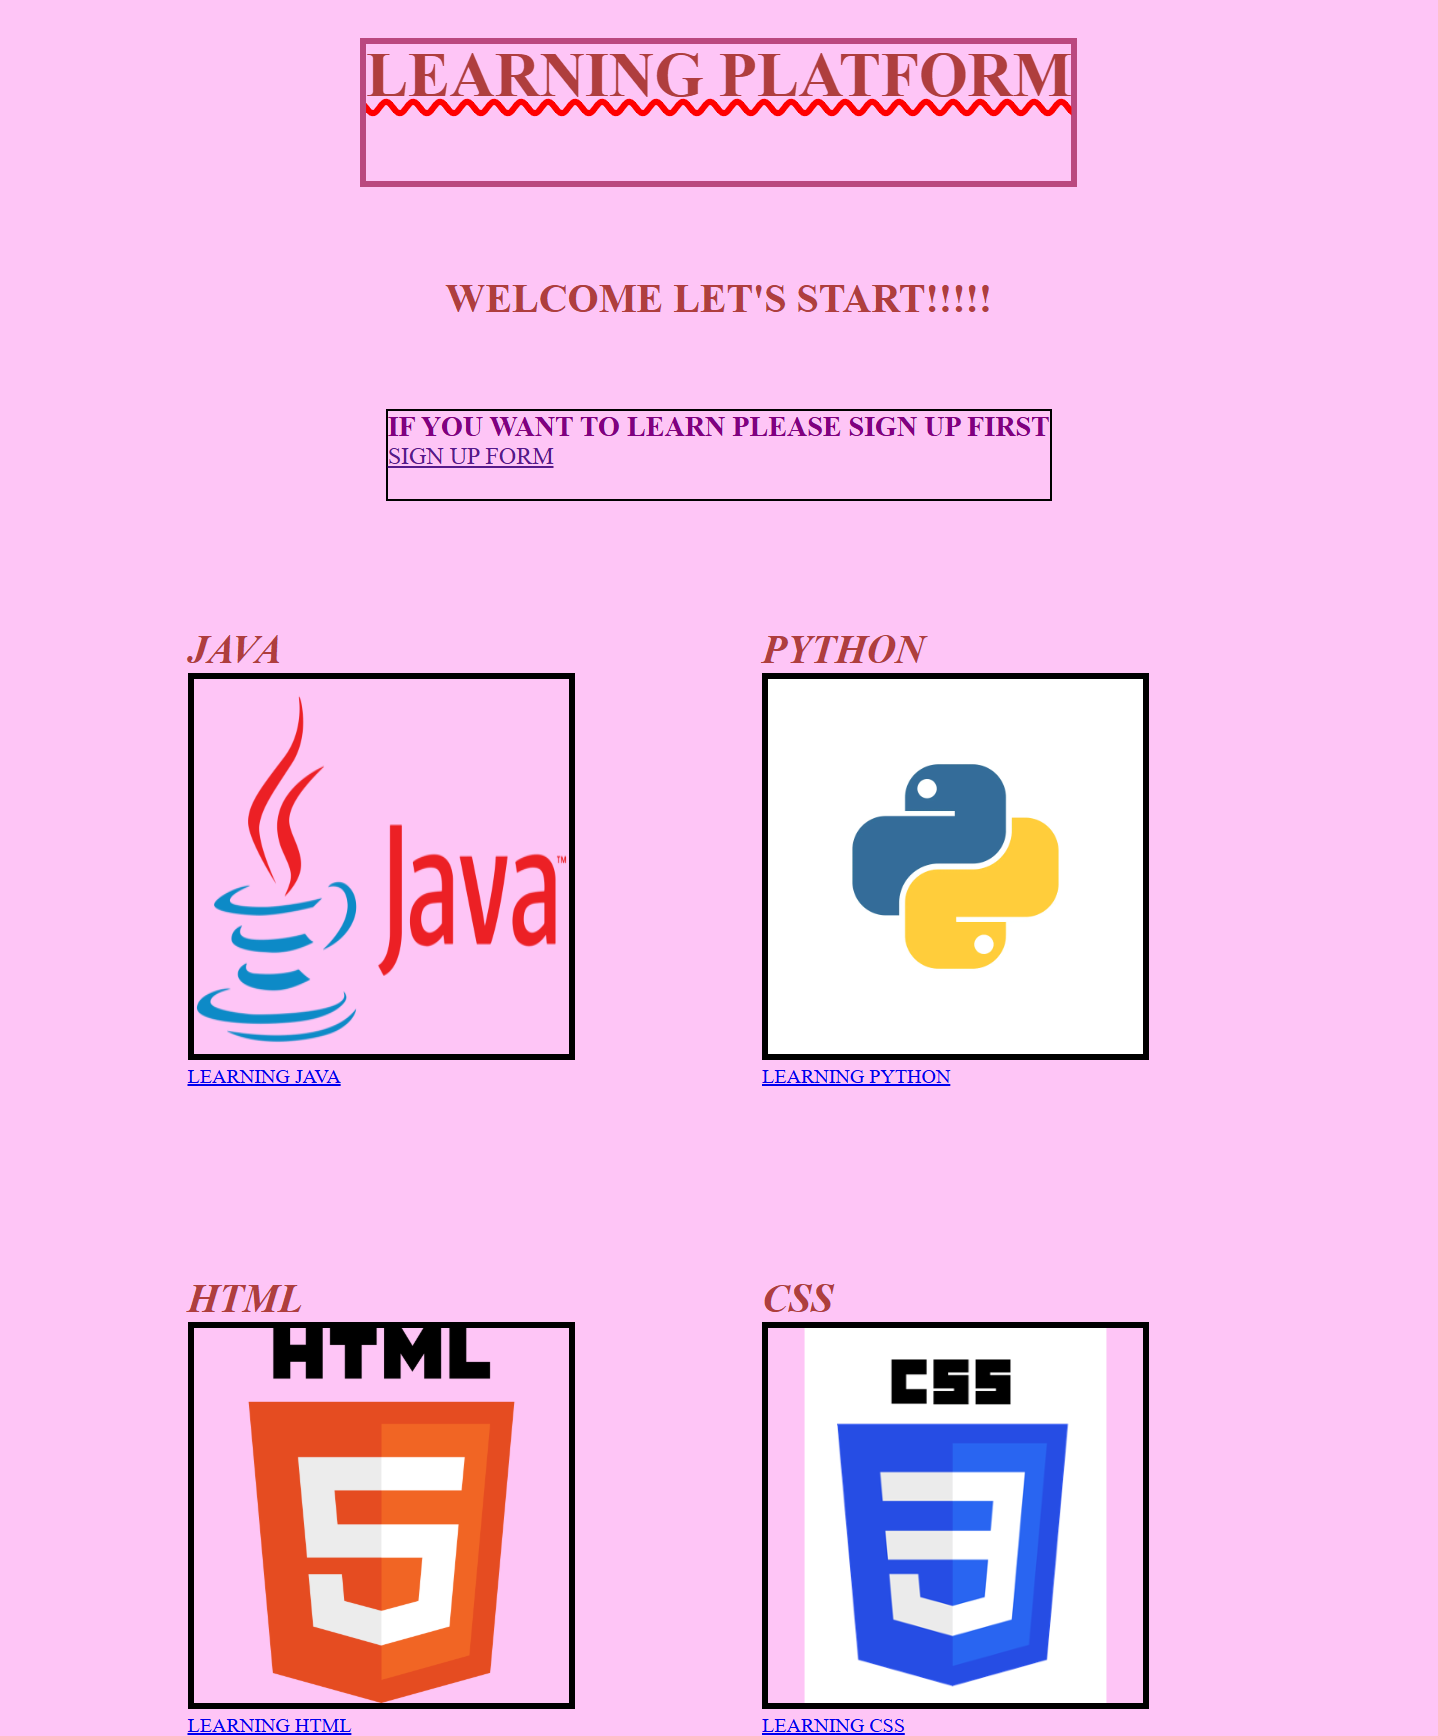
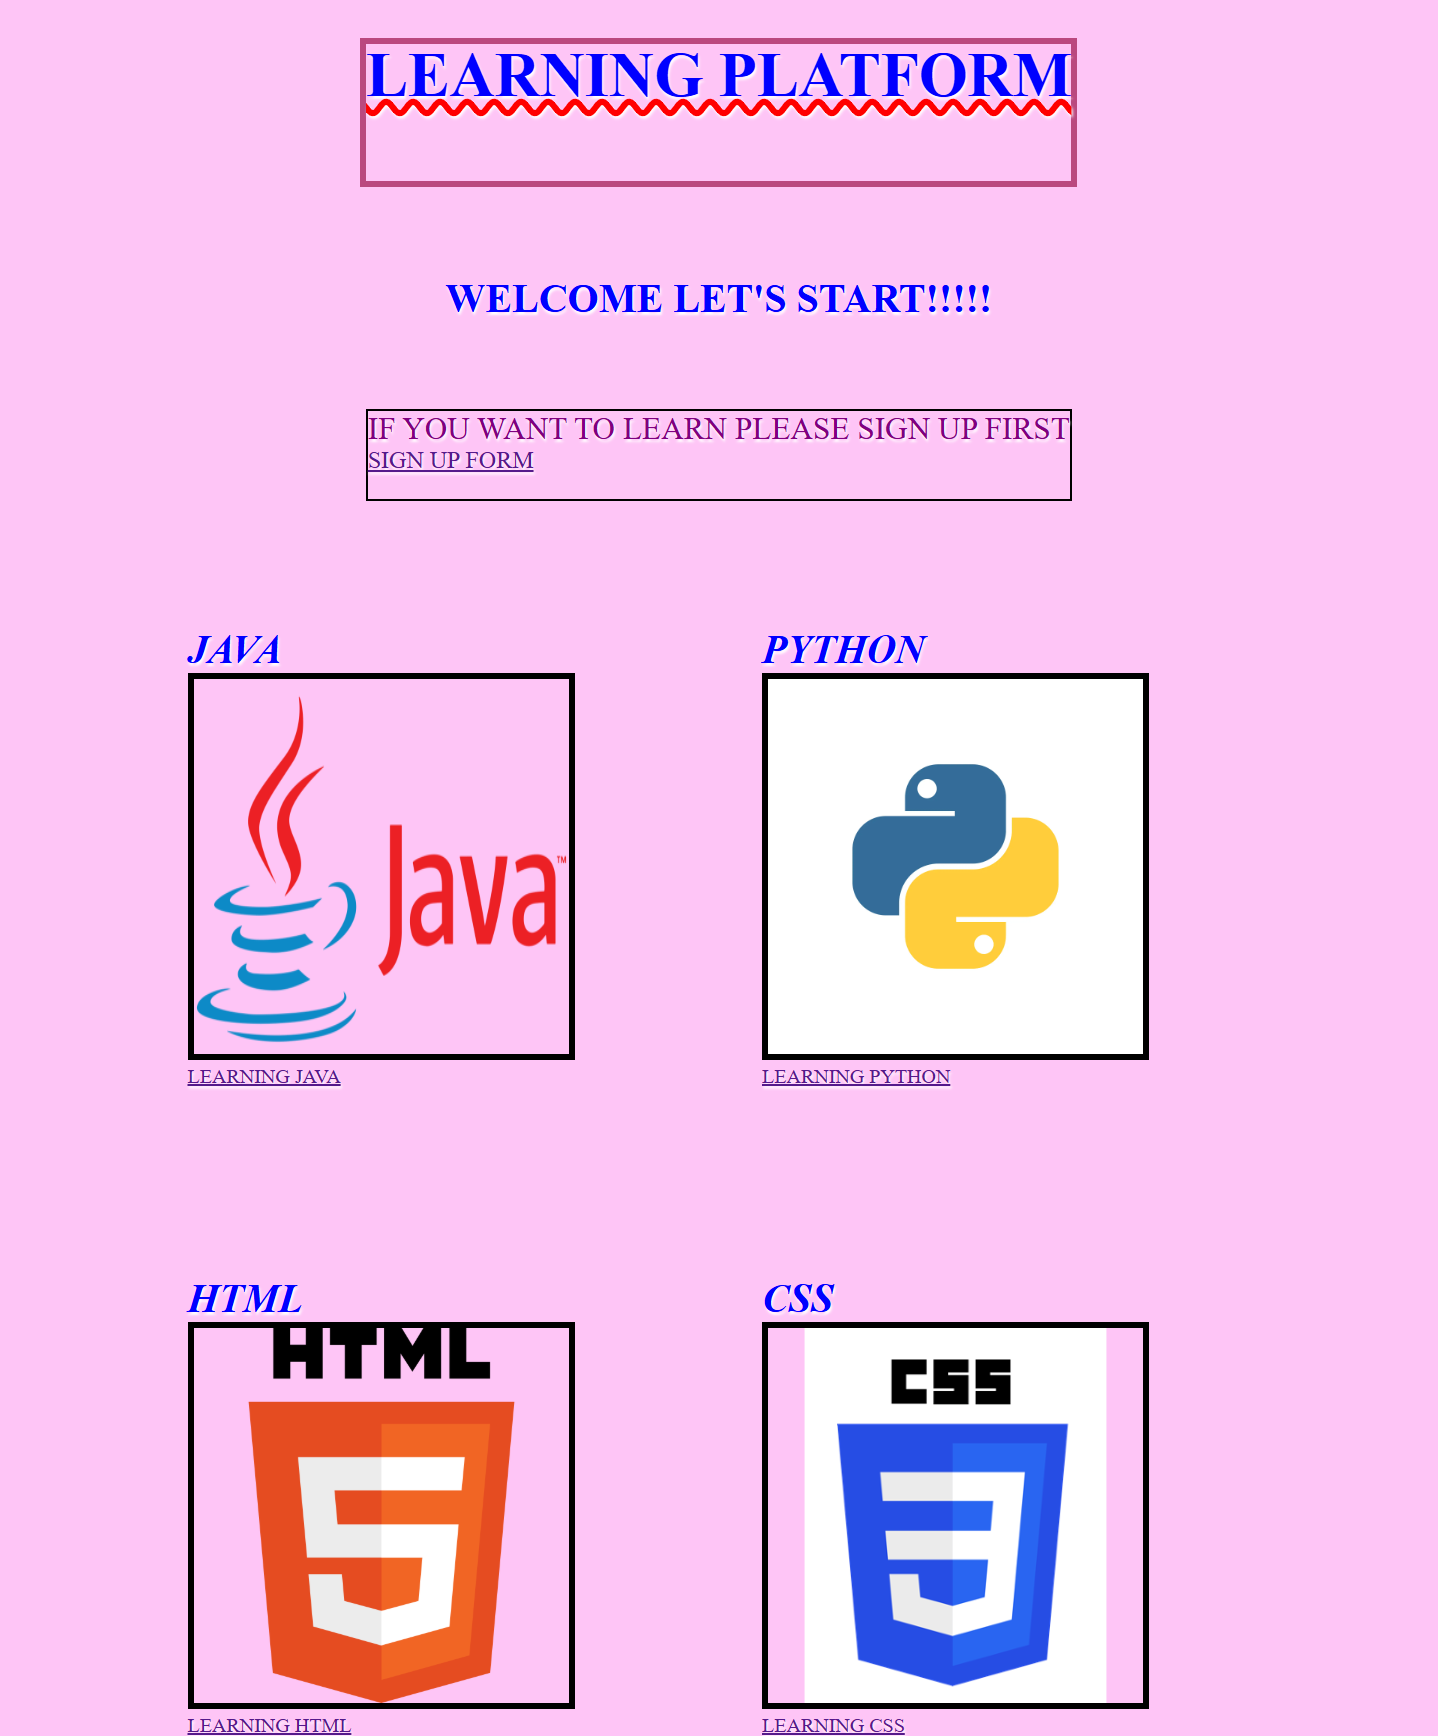
changing style

diff --git a/sign up.html b/sign up.html
@@ -11,38 +11,23 @@
     <main>
         <div class="signform">
         <form action="/action.php">
-            <h3>Write Your Name</h3>
-            <input type="text" placeholder="NAME" >
-            <br>
-            <br>
-            <br>
-            <h3>Write Your Username</h3>
-            <input type="text" placeholder="USERNAME" >
-            <br>
-            <br>
-            <br>
-            <h3>Write Your Password</h3>
-            <input type="password" placeholder="PASSWORD">
-            <br>
-            <br>
-            <br>
-            <h3>Choose What You Want To Learn </h3>
-            <select name="learn">
+            <h3>Write Your Name~</h3>
+            <input class="input" type="text" placeholder="NAME" >
+            <h3>Write Your Username~</h3>
+            <input class="input" type="text" placeholder="USERNAME" >
+            <h3>Write Your Password~</h3>
+            <input class="input" type="password" placeholder="PASSWORD">
+            <h3>Choose What You Want To Learn~</h3>
+            <select class="input"  name="learn">
                 <option value="JAVA">JAVA</option>
                 <option value="PYTHON">PYTHON</option>
                 <option value="HTML">HTML</option>
                 <option value="CSS">CSS</option>
             </select>
-            <br>
-            <br>
-            <br>
-            <h3>Write Your Opinion</h3>
-            <textarea name="opinion" placeholder="please tell your opinion" rows="5"></textarea>
-            <br>
-            <br>
-            <br>
-            <h3>For Submit Click Below</h3>
-            <input type="submit" value="SUBMIT" >
+            <h3>Write Your Opinion~</h3>
+            <textarea  name="opinion" placeholder="please tell your opinion" rows="5"></textarea>
+            <h3>For Submit Click Below~</h3>
+            <input class="input" type="submit" value="SUBMIT" >
             <h1 class="foot">THANK YOU</h1>
         </form>
     </main>

diff --git a/style.css b/style.css
@@ -5,6 +5,8 @@
 body{
     background-color: #FEC5F6;
     color:#AF3E3E;
+    color:blue;
+    text-shadow: 1px 2px 2px white;
 }
 .heading{
     height: 110px;
@@ -73,4 +75,16 @@ iframe{
 }
 .foot{
     text-align: center;
+}
+.input{
+    display: inline-block;
+    margin-bottom: 70px;
+    height:40px;
+    font-size: 20px;
+    font-weight: 400;
+}
+h3{
+    font-size: 25px;
+    font-weight: 500;
+    font-family: 'Times New Roman', Times, serif;
 }
